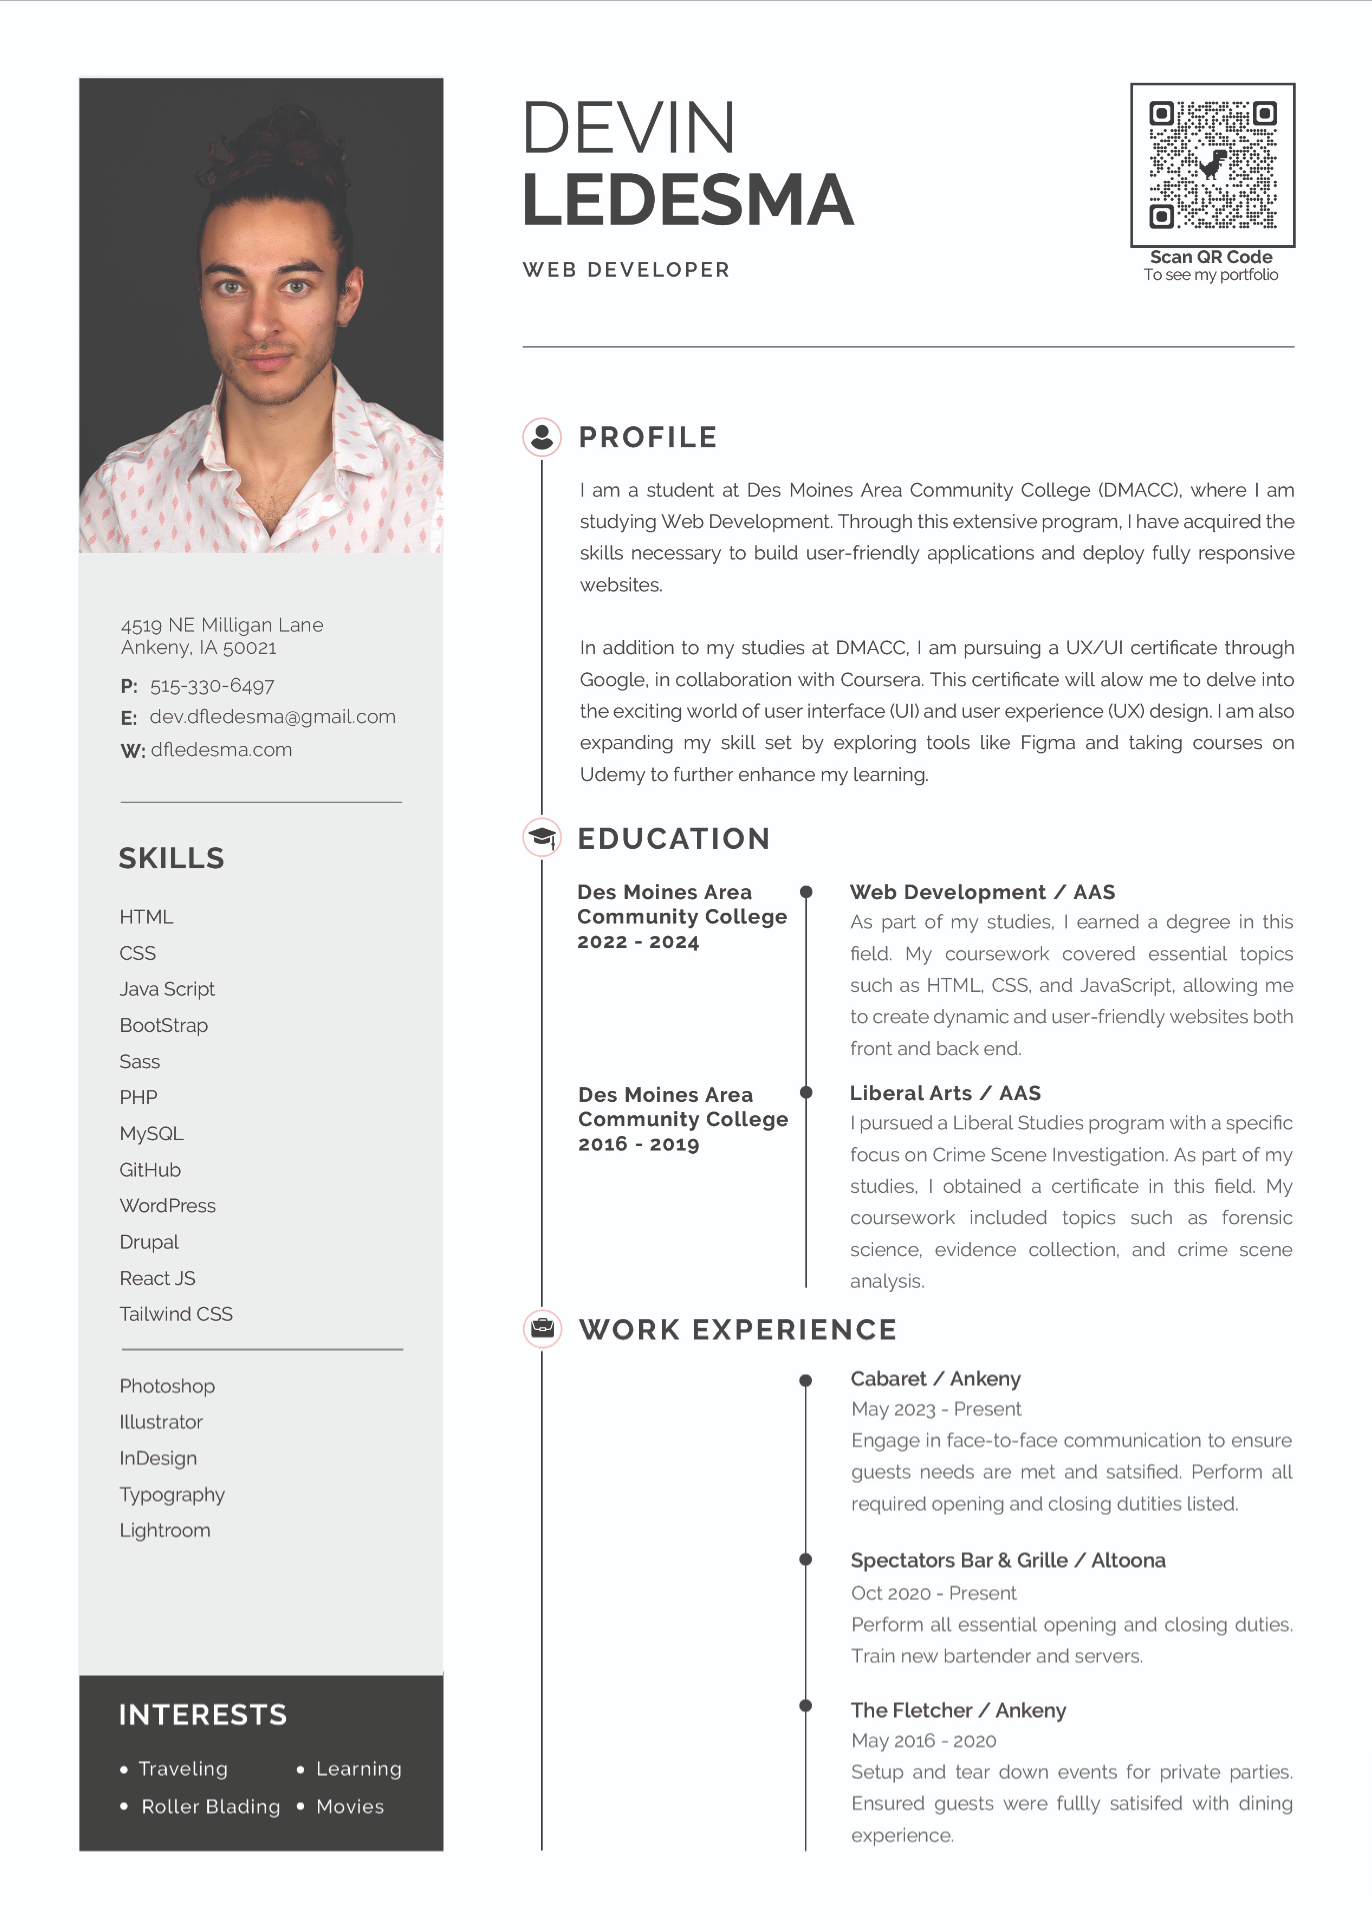
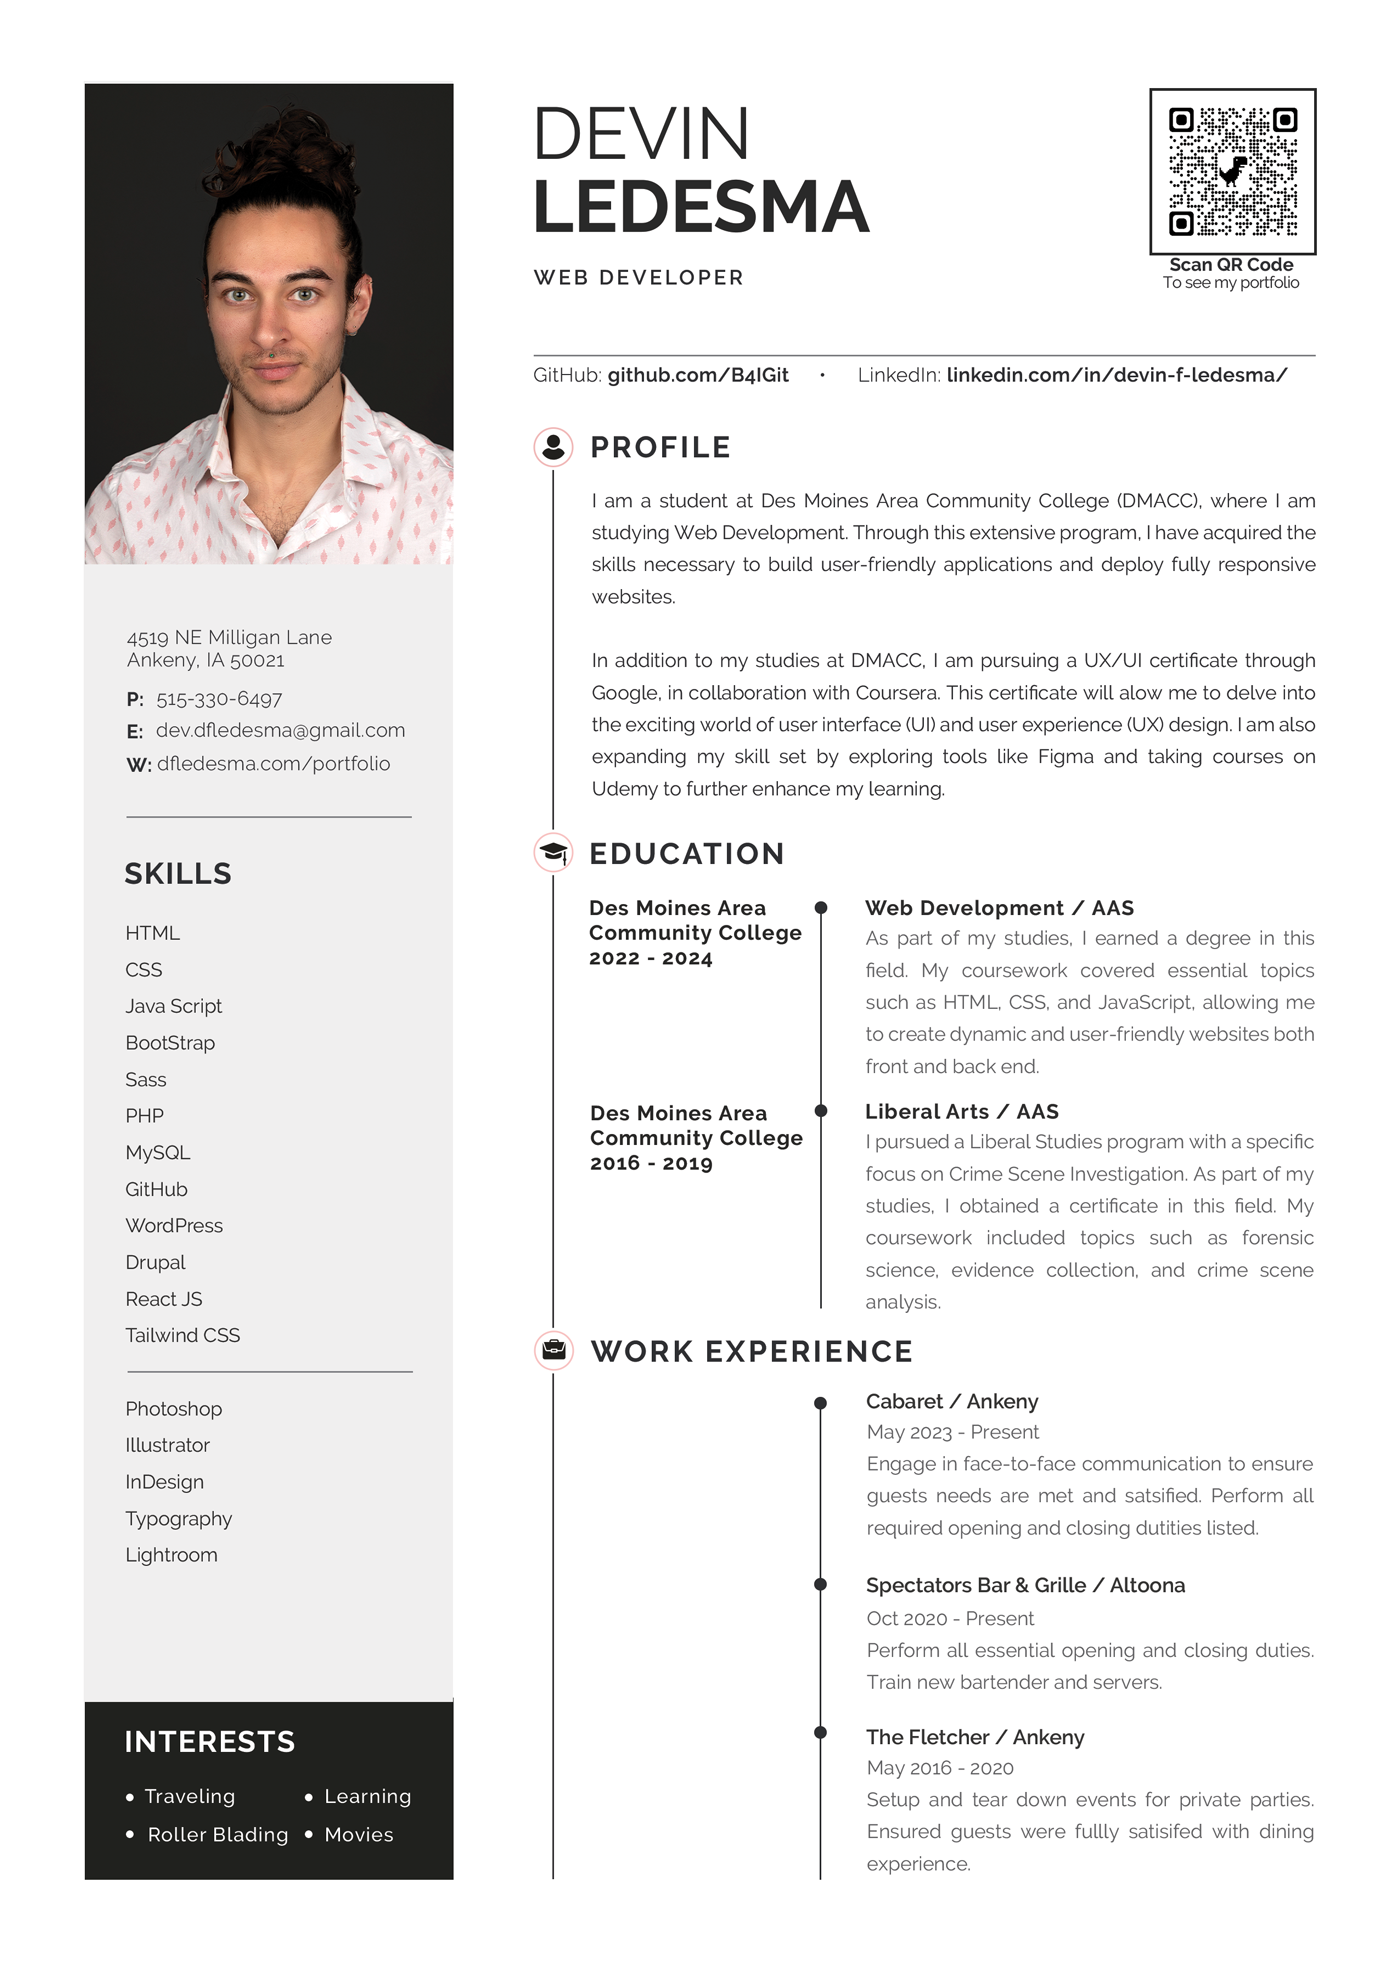
Update, this is a test

diff --git a/resume.html b/resume.html
@@ -25,7 +25,7 @@
 </head>
 <body>
 <div class="container">
-<img src="assets/media/resume2024.jpg" alt="My personal resume">
+<img src="assets/media/Personal-Resume.png" alt="My personal resume">
 </div>
 </body>
 </html>

diff --git a/index.php b/index.php
@@ -85,7 +85,7 @@ if ($_SERVER["REQUEST_METHOD"] == "POST") {
 
     <div class="social-media-bar">
         <a href="https://github.com/B4IGit" target="_blank" id="gitHub"><img src="assets/media/github.png" alt="GitHub icon"></a>
-        <a href="https://www.linkedin.com/in/devin-ledesma-8b1077296/" target="_blank" id="linkedIn"><img src="assets/media/linkedin.png" alt="LinkedIn icon"></a>
+        <a href="https://www.linkedin.com/in/devin-f-ledesma/" target="_blank" id="linkedIn"><img src="assets/media/linkedin.png" alt="LinkedIn icon"></a>
     </div>
 
     <section id="hero">
